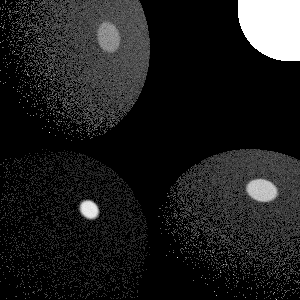
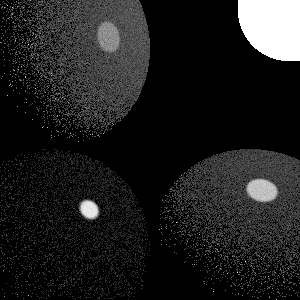
task07 finished, and fixed a little bug

Changed region(s): [[0.0, 0.48, 0.51, 1.0], [0.54, 0.48, 1.0, 1.0], [0.0, 0.0, 0.51, 0.48]]

diff --git a/task07/main.cpp b/task07/main.cpp
@@ -417,7 +417,7 @@ int main() {
         float hit1_rad = spheres[hit1_object].emission;
         float hit0_pdf_light_sample = pdf_light_sample(hit0_normal, hit0_pos, cam_ray_dir, hit0_refl, hit0_object);
         float hit0_pdf_brdf_sample = spheres[hit0_object].pdf(hit0_normal, cam_ray_dir, hit0_refl);
-        float rad = hit0_brdf*hit1_rad*(hit0_pdf_brdf_sample/(hit0_pdf_brdf_sample+hit0_pdf_light_sample))/hit0_brdf/num_half_sample;; // write some code
+        float rad = hit0_brdf*hit1_rad*(hit0_pdf_brdf_sample/(hit0_pdf_brdf_sample+hit0_pdf_light_sample))/hit0_pdf_brdf_sample/num_half_sample; // write some code
         // float rad = hit0_brdf*hit1_rad/(hit0_pdf_brdf_sample+hit0_pdf_light_sample)/num_half_sample;
         img_mis[ih * img_width + iw] += rad;
       }
